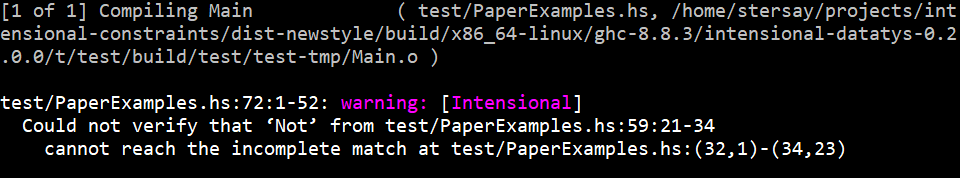
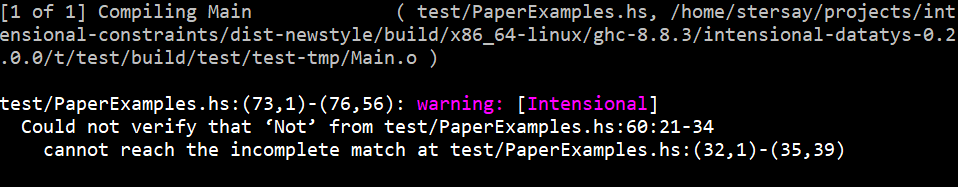
Fixed bug in PaperExamples.hs

diff --git a/README.md b/README.md
@@ -15,8 +15,9 @@ Consider the following definition of formulas and disjunctive normal form (DNF) 
   distrib xss yss = List.nub [ List.union xs ys | xs <- xss, ys <- yss ]
 
   nnf2dnf (And p q) = distrib (nnf2dnf p) (nnf2dnf q)
-  nnf2dnf (Or p q) = List.union (nnf2dnf p) (nnf2dnf q)
-  nnf2dnf (Lit a) = [[a]]
+  nnf2dnf (Or p q)  = List.union (nnf2dnf p) (nnf2dnf q)
+  nnf2dnf (Lit a)   = [[a]]
+  nnf2dnf _         = error "Impossible!"
 
   nnf' :: Fm -> Fm
   nnf' (And p q) = And (nnf' p) (nnf' q)
@@ -38,14 +39,17 @@ The function ``nnf2dnf`` has only partial patterns, for example ``Imp p q`` is o
 
 However, the definition of ``nnf'`` is not correct.  Can you spot the error?  Our tool can analyse how this program will behave at runtime and notices that ``nnf'`` can let a rogue ``Not`` through in some cases.  In particular, the following use of ``dnf`` will result in the program crashing with a pattern-match exception:
 ````
-  willCrash = dnf' (Imp (Lit (Atom 1)) (And (Atom 2) (Or (Atom 3) (Atom 1))))
+  willCrash = 
+    dnf' (Imp (Lit (Atom 1)) 
+              (And (Lit (Atom 2)) 
+                  (Or (Lit (NegAtom 3)) (Lit (Atom 1)))))
 ````
 
 When we try to compile this file with our plugin enabled, after a few milliseconds we get:
 
 ![warning message](docs/intensional-warning.png)
 
-The warning tells us that it is the ``Not`` created on line 59 that leaks out of the function (this is the ``Imp`` case of ``nnf``) and that the call on line 72 (this is the definition of ``willCrash``) will cause that ``Not`` to reach the incomplete pattern match on lines 32--34 (this is the definition of ``nnf2dnf``).
+The warning tells us that it is the ``Not`` created on line 60 that leaks out of the function (this is the ``Imp`` case of ``nnf``) and that the call on lines 73--76 (this is the definition of ``willCrash``) will cause that ``Not`` to reach the incomplete pattern match on lines 32--35 (this is the definition of ``nnf2dnf``).
 
 On the other hand, the analysis also understands that the usage in the following definition will not exercise the faulty ``Imp`` case of ``nnf'`` and hence no warning is issued for this line of code:
 ````
@@ -89,9 +93,9 @@ and access to Hackage:
 In the terminal you will find notifications of any warnings produced by the tool, which can be identified by the ``Intensional`` label in square brackets.
 
 ````
-  test/PaperExamples.hs:72:1-52: warning: [Intensional]
-    Could not verify that ‘Not’ from test/PaperExamples.hs:59:21-34
-      cannot reach the incomplete match at test/PaperExamples.hs:(32,1)-(34,23)
+  test/PaperExamples.hs:(73,1)-(76,56): warning: [Intensional]
+    Could not verify that ‘Not’ from test/PaperExamples.hs:60:21-34
+      cannot reach the incomplete match at test/PaperExamples.hs:(32,1)-(35,39)
 ````
 
 The warnings record instances where the tool *believes* there will be a pattern-match violation at runtime.
